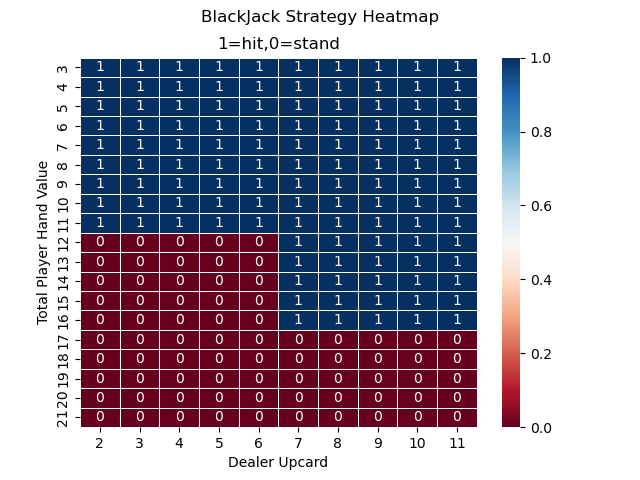
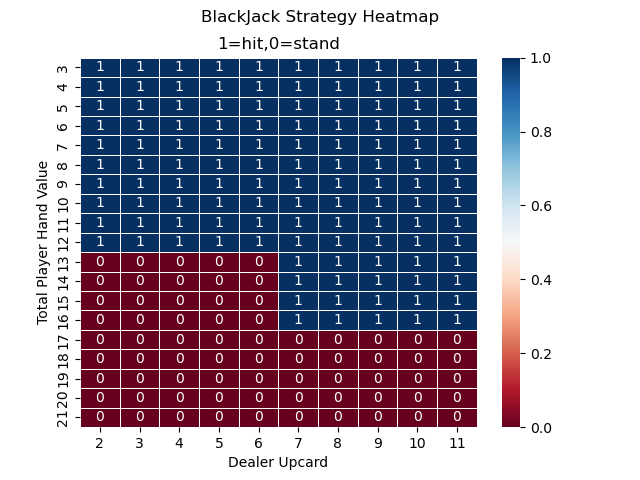
reran heatmap with new stand on value

Changed region(s): [[0.125, 0.4688, 0.4375, 0.5312]]

diff --git a/strategyHeat.py b/strategyHeat.py
@@ -3,7 +3,7 @@ import matplotlib.pyplot as plt
 import numpy as np
 import pandas as pd
 from blackJack import player_should_hit
-STAND_ON = 12 
+STAND_ON = 13 
 
 #Labels
 x_labels=[2,3,4,5,6,7,8,9,10,11]
